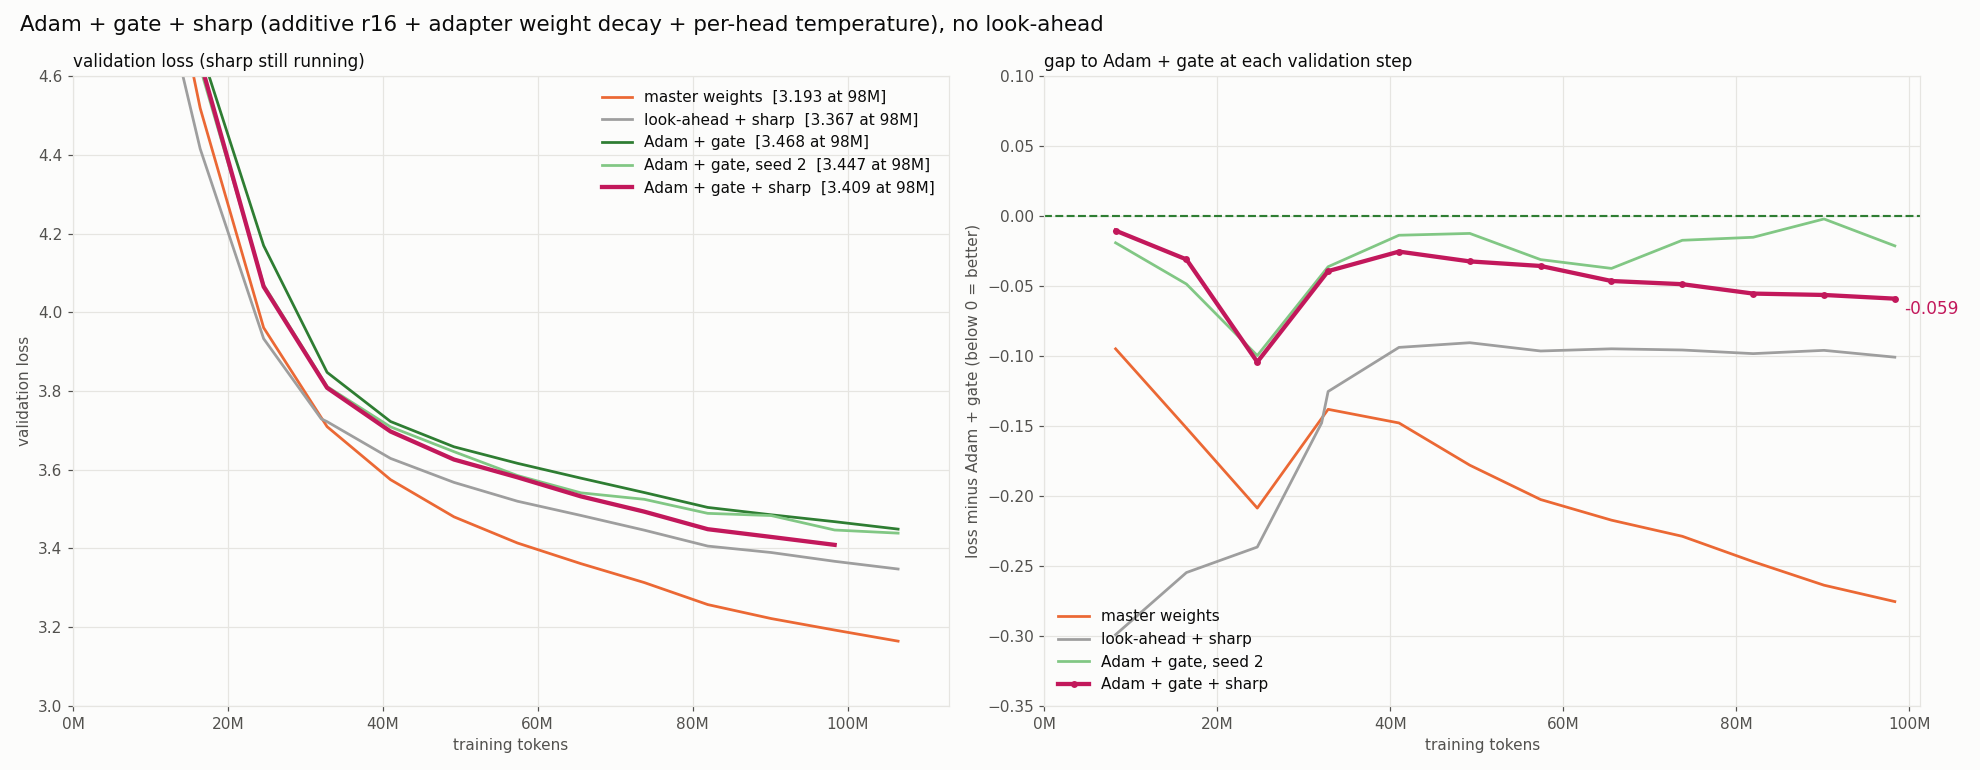
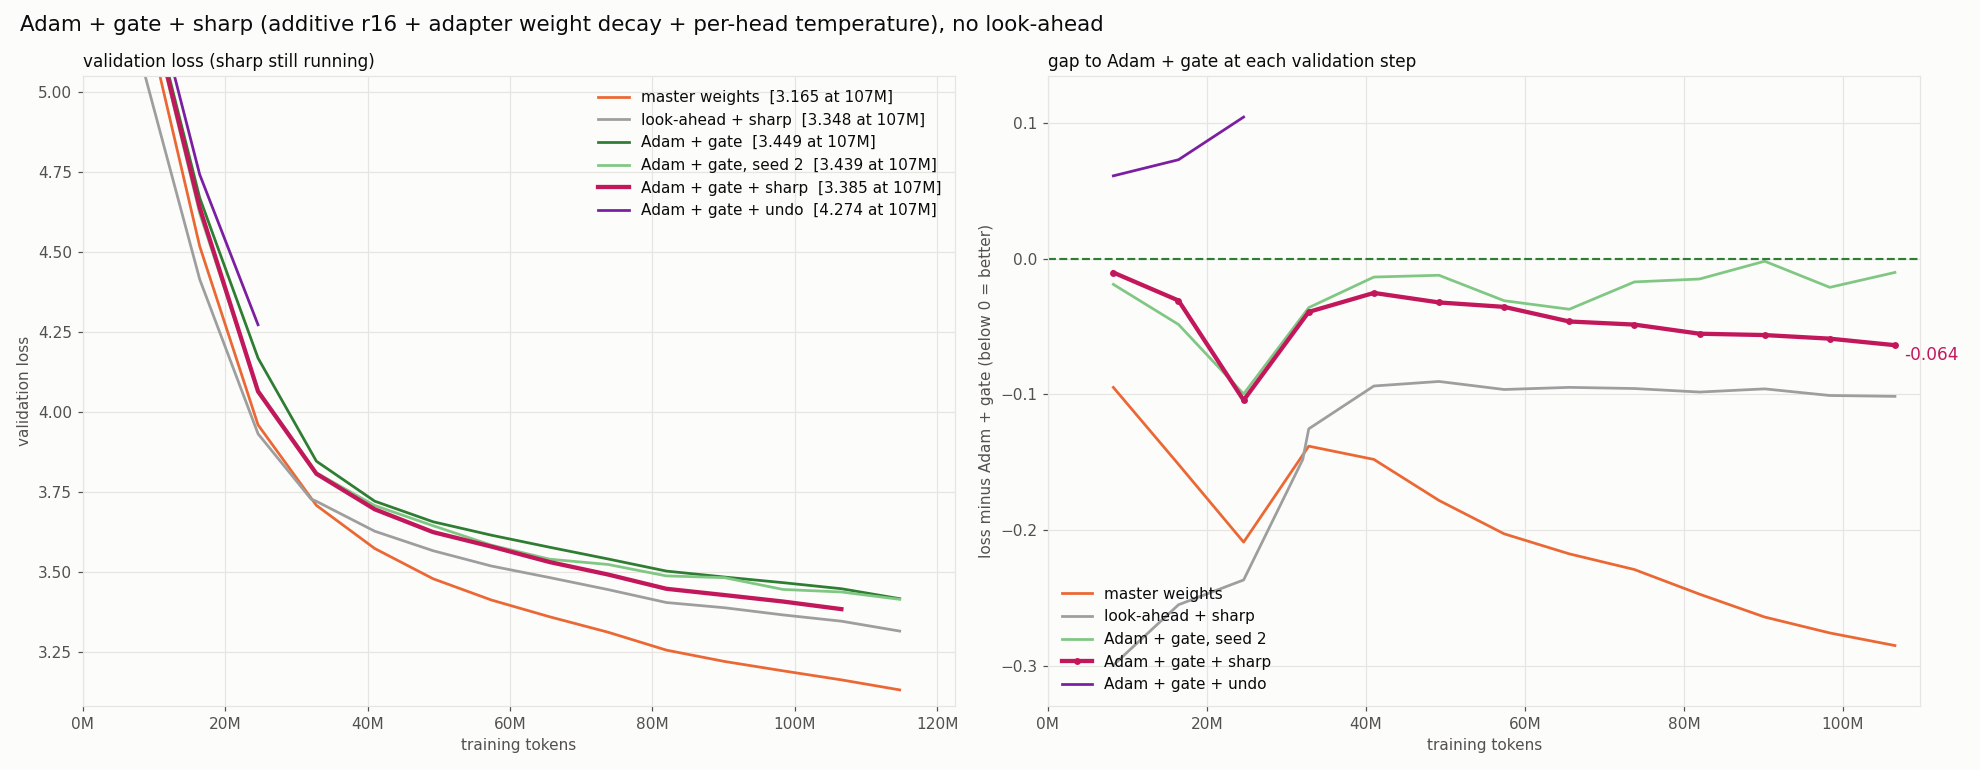
Figure: Adam + gate + undo against its references (plot_sharp takes the variant)

diff --git a/scripts/plots/plot_sharp.py b/scripts/plots/plot_sharp.py
@@ -1,8 +1,10 @@
-"""Adam + gate + sharp against its references. Left: validation loss up to where sharp is now (plus a margin);
-right: loss difference to Adam + gate at each validation step (below zero = sharp ahead).
+"""One Adam + gate variant against its references. Left: validation loss up to where the run is now (plus a margin);
+right: loss difference to Adam + gate at each validation step (below zero = the variant is ahead).
 
-  python -m scripts.plots.plot_sharp      -> docs/figures/sharp_run.png
+  python -m scripts.plots.plot_sharp            -> docs/figures/sharp_run.png  (Adam + gate + sharp)
+  python -m scripts.plots.plot_sharp undo       -> docs/figures/undo_run.png   (Adam + gate + undo)
 """
+import sys
 import numpy as np
 import matplotlib
 matplotlib.use("Agg")
@@ -13,9 +15,15 @@ RUNS = [("master_tracked", "master weights", "#eb6834"),
         ("magadd16_wd_qk_lab", "look-ahead + sharp", "#9e9e9e"),
         ("gatevnorm_rc_s0", "Adam + gate", "#2e7d32"),
         ("gatevnorm_rc_s0_seed2", "Adam + gate, seed 2", "#81c784"),
-        ("gvsharp_rc_s0", "Adam + gate + sharp", "#c2185b")]
+        ("gvsharp_rc_s0", "Adam + gate + sharp", "#c2185b"),
+        ("gvundo_rc_s0", "Adam + gate + undo", "#7b1fa2")]
+WHICH = sys.argv[1] if len(sys.argv) > 1 else "sharp"
+RUN = f"gv{WHICH}_rc_s0"
+TITLE = {"sharp": "Adam + gate + sharp (additive r16 + adapter weight decay + per-head temperature), no look-ahead",
+         "undo": "Adam + gate + undo (flip back last step's flips that the gradient and momentum both call uphill), no look-ahead"}[WHICH]
 R = {d: load(d) for d, _, _ in RUNS}
-ts, vs, _ = R["gvsharp_rc_s0"]
+ts, vs, _ = R[RUN]
+COL = dict((d, c) for d, _, c in RUNS)[RUN]
 tmax = ts[-1] * 1.15
 fig, (a, b) = plt.subplots(1, 2, figsize=(18, 7), facecolor=SURFACE)
 for ax in (a, b):
@@ -24,28 +32,30 @@ for ax in (a, b):
     ax.tick_params(colors=INK2)
     ax.xaxis.set_major_formatter(matplotlib.ticker.FuncFormatter(lambda x, _: f"{x / 1e6:.0f}M"))
 tg, vg, _ = R["gatevnorm_rc_s0"]
+LO, GAPS = [], []
 for d, lab, c in RUNS:
     if R[d] is None: continue
     t, v, _ = R[d]; m = t <= tmax
-    lw = 2.8 if d == "gvsharp_rc_s0" else 1.8
+    lw = 2.8 if d == RUN else 1.8
+    LO.append(v[m].min())
     a.plot(t[m], v[m], color=c, lw=lw, label=f"{lab}  [{np.interp(ts[-1], t, v):.3f} at {ts[-1] / 1e6:.0f}M]")
     if d != "gatevnorm_rc_s0":
         mm = t <= ts[-1]
-        b.plot(t[mm], v[mm] - np.interp(t[mm], tg, vg), color=c, lw=lw, marker="o" if d == "gvsharp_rc_s0" else None,
+        GAPS += list(v[mm] - np.interp(t[mm], tg, vg))
+        b.plot(t[mm], v[mm] - np.interp(t[mm], tg, vg), color=c, lw=lw, marker="o" if d == RUN else None,
                ms=3.5, label=lab)
-a.set_xlim(0, tmax); a.set_ylim(3.0, 4.6)
+a.set_xlim(0, tmax); a.set_ylim(min(LO) - 0.05, min(vs[0], 5.0) + 0.05)
 a.set_xlabel("training tokens", color=INK2); a.set_ylabel("validation loss", color=INK2)
 a.legend(loc="upper right", fontsize=10, frameon=False, labelcolor=INK)
-a.set_title("validation loss (sharp still running)", color=INK, fontsize=11, loc="left")
+a.set_title(f"validation loss ({WHICH} still running)", color=INK, fontsize=11, loc="left")
 b.axhline(0, color="#2e7d32", lw=1.4, ls="--")
-b.set_xlim(0, ts[-1] * 1.03); b.set_ylim(-0.35, 0.1)
+b.set_xlim(0, ts[-1] * 1.03); b.set_ylim(min(GAPS + [0]) - 0.03, max(GAPS + [0]) + 0.03)
 b.set_xlabel("training tokens", color=INK2); b.set_ylabel("loss minus Adam + gate (below 0 = better)", color=INK2)
 b.annotate(f"{vs[-1] - np.interp(ts[-1], tg, vg):+.3f}", (ts[-1], vs[-1] - np.interp(ts[-1], tg, vg)), xytext=(6, -10),
-           textcoords="offset points", color="#c2185b", fontsize=11)
+           textcoords="offset points", color=COL, fontsize=11)
 b.legend(loc="lower left", fontsize=10, frameon=False, labelcolor=INK)
 b.set_title("gap to Adam + gate at each validation step", color=INK, fontsize=11, loc="left")
-fig.suptitle("Adam + gate + sharp (additive r16 + adapter weight decay + per-head temperature), no look-ahead",
-             color=INK, fontsize=14, x=0.01, ha="left")
+fig.suptitle(TITLE, color=INK, fontsize=14, x=0.01, ha="left")
 fig.tight_layout()
-fig.savefig("docs/figures/sharp_run.png", dpi=110, facecolor=SURFACE)
-print("wrote docs/figures/sharp_run.png")
+fig.savefig(f"docs/figures/{WHICH}_run.png", dpi=110, facecolor=SURFACE)
+print(f"wrote docs/figures/{WHICH}_run.png")
